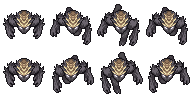
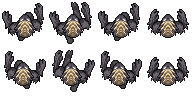
animated sprites for enemy and player

diff --git a/source/enemy.py b/source/enemy.py
@@ -12,7 +12,7 @@ from source.clock import Clock
 
 class Enemy (SpriteCollider, EnemyStats):
     def __init__(self, init_pos, target = None, patrol_points = None):
-        self.sprite = Spritesheet("source/images/basic_enemy.png", 1, 1)
+        self.sprite = Spritesheet("source/images/enemy_sheet.png", 4, 2)
         self.pos = Vector(init_pos[0],init_pos[1]) #sets the initial position of the enemy.
         self.target = target
         self.patrol_points = patrol_points
@@ -23,7 +23,7 @@ class Enemy (SpriteCollider, EnemyStats):
 
     #updates values regarding enemy position
     def update(self):
-        if Clock.transition(1):
+        if Clock.transition(10):
             self.sprite.next_frame()
         self.movement.patrol() # patrols enemy between a set of points
         self.movement.update() # updates enemy position

diff --git a/source/player.py b/source/player.py
@@ -17,7 +17,7 @@ class Player(SpriteCollider, PlayerStats):
         self.pos = Vector(init_pos[0],init_pos[1])
         self.movement = Movement(self.speed, self.pos)
         SpriteCollider.__init__(self, Vector(init_pos[0],init_pos[1]), self.movement)
-        self.sprite = Spritesheet("source/images/player.png", 1, 1)
+        self.sprite = Spritesheet("source/images/player_sheet.png", 4, 2)
 
     #updates values regarding player position
     def update(self):
@@ -44,6 +44,6 @@ class Player(SpriteCollider, PlayerStats):
             self.bullets.remove(i)
 
         self.sprite.draw(canvas, self.pos, self.movement.get_rotation())
-        if Clock.transition(1):
+        if Clock.transition(10):
             self.sprite.next_frame()
     

diff --git a/source/spritesheet.py b/source/spritesheet.py
@@ -9,7 +9,7 @@ class Spritesheet:
         self.num_cols = num_cols
 
         self.spritesheet = simplegui._load_local_image(file_path)
-        self.spritesheet_dimensions = [self.spritesheet.get_height(), self.spritesheet.get_height()]
+        self.spritesheet_dimensions = [self.spritesheet.get_width(), self.spritesheet.get_height()]
 
         self.frame_width = self.spritesheet_dimensions[0] / num_rows
         self.frame_height = self.spritesheet_dimensions[1] / num_cols
